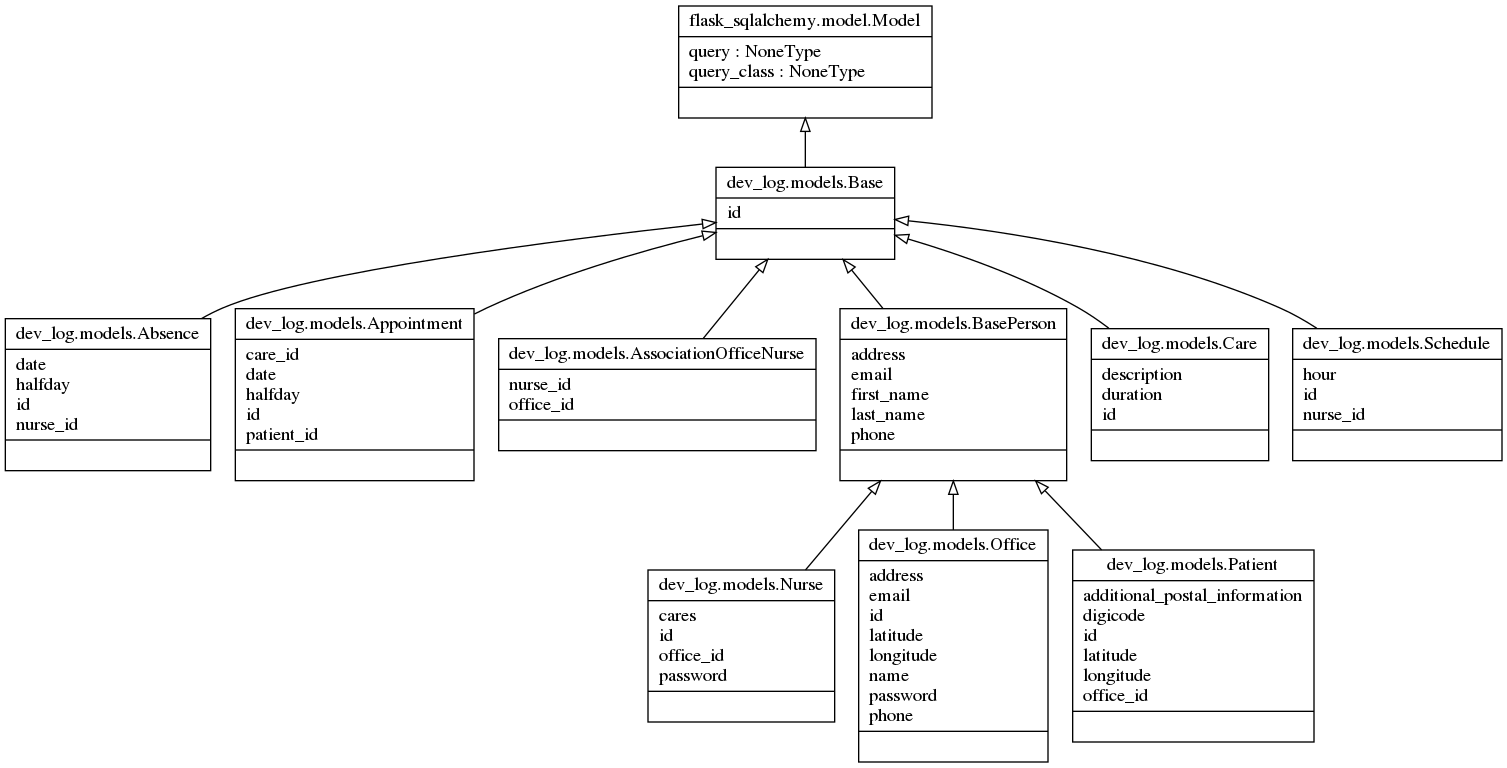
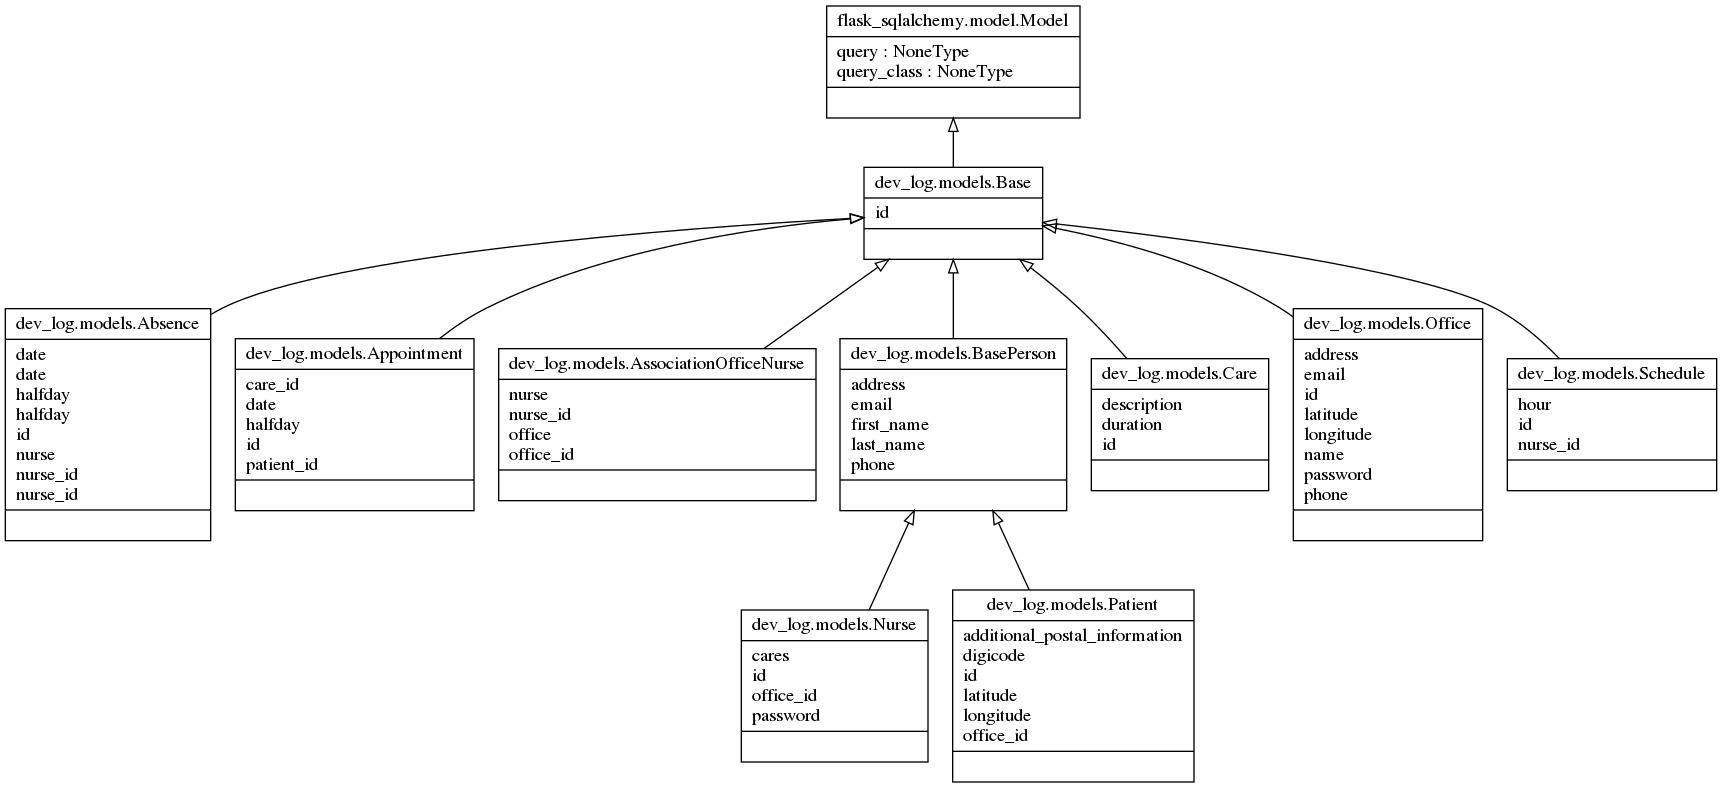
add class diagram and database diagram

diff --git a/dev_log/models.py b/dev_log/models.py
@@ -70,22 +70,22 @@ class Patient(BasePerson):
         db.Integer,
         db.ForeignKey('office.office_id'),
         nullable=False)
-
-    office = db.relationship(
-        "Office",
-        backref="office_patient")
-
-    def __init__(self, last_name, first_name, email, address, phone, digicode, additional_postal_information,
-                 office_id, latitude=None, longitude=None):
-        self.last_name = last_name
-        self.first_name = first_name
-        self.email = email
-        self.address = address
-        self.digicode = digicode
-        self.additional_postal_information = additional_postal_information
-        self.phone = phone
-        self.office_id = office_id
-        geolocation(self, key)
+    #
+    # office = db.relationship(
+    #     "Office",
+    #     backref="office_patient")
+    #
+    # def __init__(self, last_name, first_name, email, address, phone, digicode, additional_postal_information,
+    #              office_id, latitude=None, longitude=None):
+    #     self.last_name = last_name
+    #     self.first_name = first_name
+    #     self.email = email
+    #     self.address = address
+    #     self.digicode = digicode
+    #     self.additional_postal_information = additional_postal_information
+    #     self.phone = phone
+    #     self.office_id = office_id
+    #     geolocation(self, key)
 
 
 class Nurse(BasePerson):
@@ -109,19 +109,19 @@ class Nurse(BasePerson):
         db.String(50)
     )
 
-    office = db.relationship(
-        "Office",
-        backref="office_nurse")
-
-    def __init__(self, last_name, first_name, email, password, phone, address, office_id, cares):
-        self.last_name = last_name
-        self.first_name = first_name
-        self.email = email
-        self.phone = phone
-        self.password = password
-        self.address = address
-        self.office_id = office_id
-        self.cares = cares
+    # office = db.relationship(
+    #     "Office",
+    #     backref="office_nurse")
+    #
+    # def __init__(self, last_name, first_name, email, password, phone, address, office_id, cares):
+    #     self.last_name = last_name
+    #     self.first_name = first_name
+    #     self.email = email
+    #     self.phone = phone
+    #     self.password = password
+    #     self.address = address
+    #     self.office_id = office_id
+    #     self.cares = cares
 
 
 class Appointment(Base):
@@ -150,19 +150,19 @@ class Appointment(Base):
         db.String
     )
 
-    patient = db.relationship(
-        "Patient",
-        backref="patient")
-
-    care = db.relationship(
-        "Care",
-        backref="care")
-
-    def __init__(self, patient_id, date, care_id, halfday=None):
-        self.patient_id = patient_id
-        self.date = date
-        self.halfday = halfday
-        self.care_id = care_id
+    # patient = db.relationship(
+    #     "Patient",
+    #     backref="patient")
+    #
+    # care = db.relationship(
+    #     "Care",
+    #     backref="care")
+    #
+    # def __init__(self, patient_id, date, care_id, halfday=None):
+    #     self.patient_id = patient_id
+    #     self.date = date
+    #     self.halfday = halfday
+    #     self.care_id = care_id
 
 
 class Schedule(Base):
@@ -187,13 +187,13 @@ class Schedule(Base):
     #     backref="appointment"
     # )
 
-    nurse = db.relationship(
-        "Nurse",
-        backref="nurse")
-
-    def __init__(self, hour, nurse_id):
-        self.hour = hour
-        self.nurse_id = nurse_id
+    # nurse = db.relationship(
+    #     "Nurse",
+    #     backref="nurse")
+    #
+    # def __init__(self, hour, nurse_id):
+    #     self.hour = hour
+    #     self.nurse_id = nurse_id
 
 
 class Care(Base):
@@ -210,12 +210,12 @@ class Care(Base):
         db.Integer,
         nullable=False)
 
-    def __init__(self, description, duration):
-        self.description = description
-        self.duration = duration
+    # def __init__(self, description, duration):
+    #     self.description = description
+    #     self.duration = duration
 
 
-class Office(BasePerson):
+class Office(Base):
     id = db.Column(
         'office_id',
         db.Integer,
@@ -250,15 +250,15 @@ class Office(BasePerson):
         db.Float
     )
 
-    nurses = db.relationship("AssociationOfficeNurse")
-
-    def __init__(self, name, address, email, phone, password, latitude=None, longitude=None):
-        self.name = name
-        self.address = address
-        self.email = email
-        self.phone = phone
-        self.password = password
-        geolocation(self, key)
+    # nurses = db.relationship("AssociationOfficeNurse")
+    #
+    # def __init__(self, name, address, email, phone, password, latitude=None, longitude=None):
+    #     self.name = name
+    #     self.address = address
+    #     self.email = email
+    #     self.phone = phone
+    #     self.password = password
+    #     geolocation(self, key)
 
 
 # Many to Many relation
